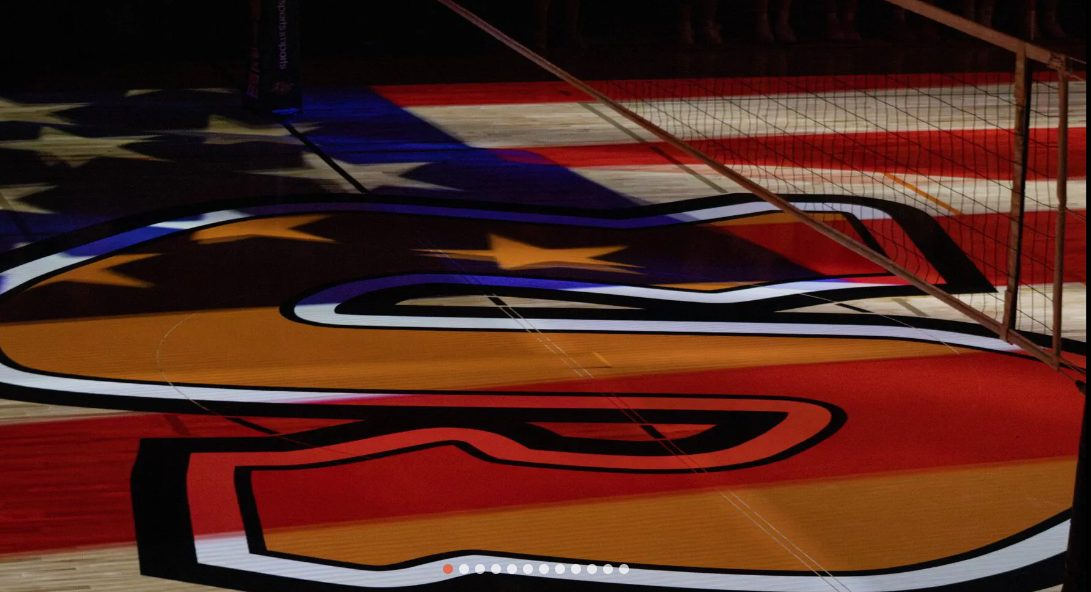
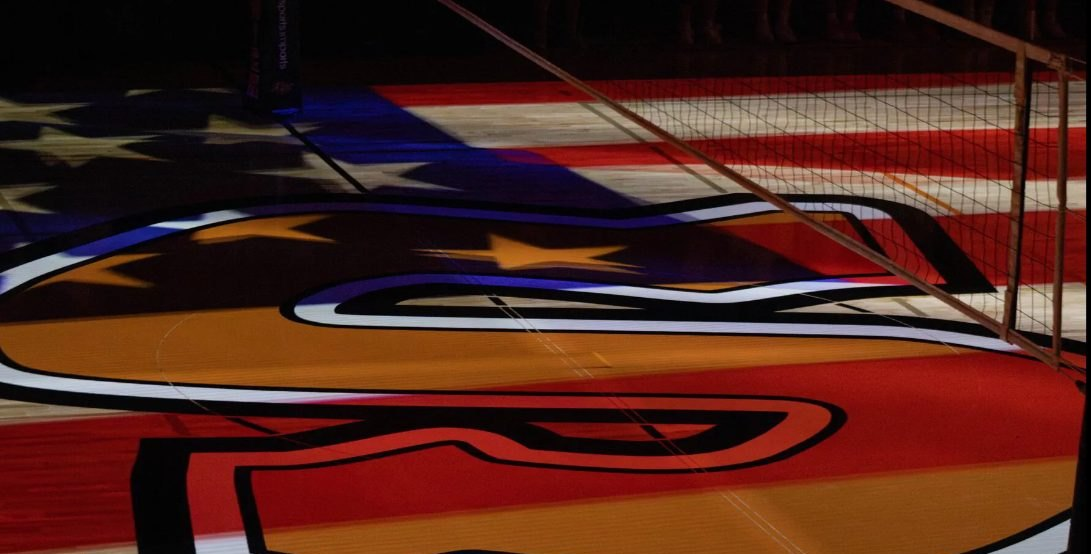
Point membership and store links at the club store, resize schedules hero
- Membership "Become a Member" (memberships page + home menu) now opens the
  club's online store at sandwichsportsboosters.org/digital-services
- Store tab and footer link point at the same store page
- Schedules hero: taller crop so the gym-floor photo is no longer squeezed,
  and trimmed the stray carousel dots off the source image
- Shrank the oversized SHS Sports Schedules and Sponsorship Flyer buttons

Claude-Session: https://claude.ai/code/session_013qvwCLS4XguXbzsBcgNBWY

diff --git a/memberships.html b/memberships.html
@@ -431,14 +431,14 @@ footer ul li a:hover{color:var(--accent-soft)}
 /* giant single call-to-action link block */
 .big-link{display:block;position:relative;overflow:hidden;text-align:center;border-radius:22px;
   background:linear-gradient(135deg,var(--accent) 0%,var(--accent-deep) 100%);
-  color:#150b02;padding:clamp(40px,6vw,72px) 28px;box-shadow:0 26px 60px -24px rgba(255,122,26,.75);
+  color:#150b02;padding:clamp(26px,3.4vw,40px) 26px;box-shadow:0 20px 46px -22px rgba(255,122,26,.7);
   transition:.35s cubic-bezier(.16,1,.3,1)}
 .big-link:hover{transform:translateY(-5px);box-shadow:0 34px 72px -22px rgba(255,122,26,.9)}
 .big-link::after{content:"";position:absolute;inset:0;background:linear-gradient(120deg,transparent,rgba(255,255,255,.4),transparent);transform:translateX(-130%);transition:.7s}
 .big-link:hover::after{transform:translateX(130%)}
-.big-link .bl-tag{font-size:11.5px;font-weight:800;letter-spacing:.28em;text-transform:uppercase;opacity:.72}
-.big-link h2{font-size:clamp(2.3rem,6vw,4.4rem);margin-top:10px;color:#150b02}
-.big-link .bl-note{margin-top:14px;font-weight:700;font-size:1rem;opacity:.8}
+.big-link .bl-tag{font-size:10.5px;font-weight:800;letter-spacing:.28em;text-transform:uppercase;opacity:.72}
+.big-link h2{font-size:clamp(1.9rem,3.6vw,2.9rem);margin-top:8px;color:#150b02}
+.big-link .bl-note{margin-top:10px;font-weight:700;font-size:.92rem;opacity:.82}
 
 /* event rows — photo on top, no boxy card */
 .event-row{display:grid;grid-template-columns:.95fr 1.05fr;gap:clamp(22px,3vw,40px);align-items:center;padding:clamp(22px,3vw,32px) 0;border-top:1px solid var(--line)}
@@ -518,8 +518,9 @@ footer ul li a:hover{color:var(--accent-soft)}
 @media(max-width:780px){.mem-grid{grid-template-columns:1fr}}
 
 /* compact photo hero for interior pages */
-.page-photo-hero{min-height:auto;padding:150px 0 74px}
-.page-photo-hero .hero-lockup h1{font-size:clamp(2.6rem,6vw,4.4rem)}
+.page-photo-hero{min-height:62vh;padding:170px 0 96px}
+.page-photo-hero .hero-lockup h1{font-size:clamp(2.4rem,5.2vw,3.9rem)}
+.page-photo-hero .bg img{object-position:center 55%}
 </style>
 </head>
 <body>
@@ -536,7 +537,7 @@ footer ul li a:hover{color:var(--accent-soft)}
       <a class="lk" href="about.html">About Us</a>
       <a class="lk" href="sponsorship.html">Sponsorship</a>
       <a class="lk active" aria-current="page" href="memberships.html">Memberships</a>
-      <a class="lk" href="#REPLACE-WITH-STORE-DESTINATION" target="_blank" rel="noopener">Store</a>
+      <a class="lk" href="https://sandwichsportsboosters.org/digital-services" target="_blank" rel="noopener">Store</a>
       <a class="lk" href="coaches-corner.html">Coaches Corner</a>
       <a class="btn btn-primary nav-cta" href="sponsorship.html">Become a Sponsor</a>
     </nav>
@@ -589,7 +590,7 @@ footer ul li a:hover{color:var(--accent-soft)}
     <p class="mem-note reveal">Volunteering isn't required, but it's encouraged. If you choose not to volunteer you can't direct your membership fee to a sport &mdash; you still get every other benefit.</p>
 
     <div style="text-align:center;margin-top:34px">
-      <a class="btn btn-primary ext" href="#REPLACE-WITH-MEMBER-SIGNUP-DESTINATION" target="_blank" rel="noopener">Become a Member</a>
+      <a class="btn btn-primary ext" href="https://sandwichsportsboosters.org/digital-services" target="_blank" rel="noopener">Become a Member</a>
     </div>
   </div>
 </section>
@@ -617,7 +618,7 @@ footer ul li a:hover{color:var(--accent-soft)}
           <li><a href="about.html">About Us</a></li>
           <li><a href="sponsorship.html">Sponsorship</a></li>
           <li><a href="memberships.html">Memberships</a></li>
-          <li><a href="#REPLACE-WITH-STORE-DESTINATION" target="_blank" rel="noopener">Store</a></li>
+          <li><a href="https://sandwichsportsboosters.org/digital-services" target="_blank" rel="noopener">Store</a></li>
           <li><a href="coaches-corner.html">Coaches Corner</a></li>
           <li><a href="contact.html">Contact Us</a></li>
         </ul>

diff --git a/index.html b/index.html
@@ -431,14 +431,14 @@ footer ul li a:hover{color:var(--accent-soft)}
 /* giant single call-to-action link block */
 .big-link{display:block;position:relative;overflow:hidden;text-align:center;border-radius:22px;
   background:linear-gradient(135deg,var(--accent) 0%,var(--accent-deep) 100%);
-  color:#150b02;padding:clamp(40px,6vw,72px) 28px;box-shadow:0 26px 60px -24px rgba(255,122,26,.75);
+  color:#150b02;padding:clamp(26px,3.4vw,40px) 26px;box-shadow:0 20px 46px -22px rgba(255,122,26,.7);
   transition:.35s cubic-bezier(.16,1,.3,1)}
 .big-link:hover{transform:translateY(-5px);box-shadow:0 34px 72px -22px rgba(255,122,26,.9)}
 .big-link::after{content:"";position:absolute;inset:0;background:linear-gradient(120deg,transparent,rgba(255,255,255,.4),transparent);transform:translateX(-130%);transition:.7s}
 .big-link:hover::after{transform:translateX(130%)}
-.big-link .bl-tag{font-size:11.5px;font-weight:800;letter-spacing:.28em;text-transform:uppercase;opacity:.72}
-.big-link h2{font-size:clamp(2.3rem,6vw,4.4rem);margin-top:10px;color:#150b02}
-.big-link .bl-note{margin-top:14px;font-weight:700;font-size:1rem;opacity:.8}
+.big-link .bl-tag{font-size:10.5px;font-weight:800;letter-spacing:.28em;text-transform:uppercase;opacity:.72}
+.big-link h2{font-size:clamp(1.9rem,3.6vw,2.9rem);margin-top:8px;color:#150b02}
+.big-link .bl-note{margin-top:10px;font-weight:700;font-size:.92rem;opacity:.82}
 
 /* event rows — photo on top, no boxy card */
 .event-row{display:grid;grid-template-columns:.95fr 1.05fr;gap:clamp(22px,3vw,40px);align-items:center;padding:clamp(22px,3vw,32px) 0;border-top:1px solid var(--line)}
@@ -518,8 +518,9 @@ footer ul li a:hover{color:var(--accent-soft)}
 @media(max-width:780px){.mem-grid{grid-template-columns:1fr}}
 
 /* compact photo hero for interior pages */
-.page-photo-hero{min-height:auto;padding:150px 0 74px}
-.page-photo-hero .hero-lockup h1{font-size:clamp(2.6rem,6vw,4.4rem)}
+.page-photo-hero{min-height:62vh;padding:170px 0 96px}
+.page-photo-hero .hero-lockup h1{font-size:clamp(2.4rem,5.2vw,3.9rem)}
+.page-photo-hero .bg img{object-position:center 55%}
 
 /* ---- page-specific ---- */
 /* home is a menu: hero lockup + four buttons, nothing else */
@@ -570,7 +571,7 @@ footer ul li a:hover{color:var(--accent-soft)}
       <a class="lk" href="about.html">About Us</a>
       <a class="lk" href="sponsorship.html">Sponsorship</a>
       <a class="lk" href="memberships.html">Memberships</a>
-      <a class="lk" href="#REPLACE-WITH-STORE-DESTINATION" target="_blank" rel="noopener">Store</a>
+      <a class="lk" href="https://sandwichsportsboosters.org/digital-services" target="_blank" rel="noopener">Store</a>
       <a class="lk" href="coaches-corner.html">Coaches Corner</a>
       <a class="btn btn-primary nav-cta" href="sponsorship.html">Become a Sponsor</a>
     </nav>
@@ -593,7 +594,7 @@ footer ul li a:hover{color:var(--accent-soft)}
 
     <!-- MAIN MENU — each opens where the action actually happens -->
     <nav class="home-menu reveal" aria-label="Main actions">
-      <a class="menu-btn" href="#REPLACE-WITH-MEMBER-SIGNUP-DESTINATION" target="_blank" rel="noopener">
+      <a class="menu-btn" href="https://sandwichsportsboosters.org/digital-services" target="_blank" rel="noopener">
         <span>BECOME A MEMBER</span>
       </a>
       <a class="menu-btn" href="https://shs.sandwich430.org/athletics-home" target="_blank" rel="noopener">
@@ -630,7 +631,7 @@ footer ul li a:hover{color:var(--accent-soft)}
           <li><a href="about.html">About Us</a></li>
           <li><a href="sponsorship.html">Sponsorship</a></li>
           <li><a href="memberships.html">Memberships</a></li>
-          <li><a href="#REPLACE-WITH-STORE-DESTINATION" target="_blank" rel="noopener">Store</a></li>
+          <li><a href="https://sandwichsportsboosters.org/digital-services" target="_blank" rel="noopener">Store</a></li>
           <li><a href="coaches-corner.html">Coaches Corner</a></li>
           <li><a href="contact.html">Contact Us</a></li>
         </ul>

diff --git a/contact.html b/contact.html
@@ -431,14 +431,14 @@ footer ul li a:hover{color:var(--accent-soft)}
 /* giant single call-to-action link block */
 .big-link{display:block;position:relative;overflow:hidden;text-align:center;border-radius:22px;
   background:linear-gradient(135deg,var(--accent) 0%,var(--accent-deep) 100%);
-  color:#150b02;padding:clamp(40px,6vw,72px) 28px;box-shadow:0 26px 60px -24px rgba(255,122,26,.75);
+  color:#150b02;padding:clamp(26px,3.4vw,40px) 26px;box-shadow:0 20px 46px -22px rgba(255,122,26,.7);
   transition:.35s cubic-bezier(.16,1,.3,1)}
 .big-link:hover{transform:translateY(-5px);box-shadow:0 34px 72px -22px rgba(255,122,26,.9)}
 .big-link::after{content:"";position:absolute;inset:0;background:linear-gradient(120deg,transparent,rgba(255,255,255,.4),transparent);transform:translateX(-130%);transition:.7s}
 .big-link:hover::after{transform:translateX(130%)}
-.big-link .bl-tag{font-size:11.5px;font-weight:800;letter-spacing:.28em;text-transform:uppercase;opacity:.72}
-.big-link h2{font-size:clamp(2.3rem,6vw,4.4rem);margin-top:10px;color:#150b02}
-.big-link .bl-note{margin-top:14px;font-weight:700;font-size:1rem;opacity:.8}
+.big-link .bl-tag{font-size:10.5px;font-weight:800;letter-spacing:.28em;text-transform:uppercase;opacity:.72}
+.big-link h2{font-size:clamp(1.9rem,3.6vw,2.9rem);margin-top:8px;color:#150b02}
+.big-link .bl-note{margin-top:10px;font-weight:700;font-size:.92rem;opacity:.82}
 
 /* event rows — photo on top, no boxy card */
 .event-row{display:grid;grid-template-columns:.95fr 1.05fr;gap:clamp(22px,3vw,40px);align-items:center;padding:clamp(22px,3vw,32px) 0;border-top:1px solid var(--line)}
@@ -518,8 +518,9 @@ footer ul li a:hover{color:var(--accent-soft)}
 @media(max-width:780px){.mem-grid{grid-template-columns:1fr}}
 
 /* compact photo hero for interior pages */
-.page-photo-hero{min-height:auto;padding:150px 0 74px}
-.page-photo-hero .hero-lockup h1{font-size:clamp(2.6rem,6vw,4.4rem)}
+.page-photo-hero{min-height:62vh;padding:170px 0 96px}
+.page-photo-hero .hero-lockup h1{font-size:clamp(2.4rem,5.2vw,3.9rem)}
+.page-photo-hero .bg img{object-position:center 55%}
 </style>
 </head>
 <body>
@@ -536,7 +537,7 @@ footer ul li a:hover{color:var(--accent-soft)}
       <a class="lk" href="about.html">About Us</a>
       <a class="lk" href="sponsorship.html">Sponsorship</a>
       <a class="lk" href="memberships.html">Memberships</a>
-      <a class="lk" href="#REPLACE-WITH-STORE-DESTINATION" target="_blank" rel="noopener">Store</a>
+      <a class="lk" href="https://sandwichsportsboosters.org/digital-services" target="_blank" rel="noopener">Store</a>
       <a class="lk" href="coaches-corner.html">Coaches Corner</a>
       <a class="btn btn-primary nav-cta" href="sponsorship.html">Become a Sponsor</a>
     </nav>
@@ -629,7 +630,7 @@ document.getElementById('contactForm').addEventListener('submit',function(e){
           <li><a href="about.html">About Us</a></li>
           <li><a href="sponsorship.html">Sponsorship</a></li>
           <li><a href="memberships.html">Memberships</a></li>
-          <li><a href="#REPLACE-WITH-STORE-DESTINATION" target="_blank" rel="noopener">Store</a></li>
+          <li><a href="https://sandwichsportsboosters.org/digital-services" target="_blank" rel="noopener">Store</a></li>
           <li><a href="coaches-corner.html">Coaches Corner</a></li>
           <li><a href="contact.html">Contact Us</a></li>
         </ul>

diff --git a/about.html b/about.html
@@ -431,14 +431,14 @@ footer ul li a:hover{color:var(--accent-soft)}
 /* giant single call-to-action link block */
 .big-link{display:block;position:relative;overflow:hidden;text-align:center;border-radius:22px;
   background:linear-gradient(135deg,var(--accent) 0%,var(--accent-deep) 100%);
-  color:#150b02;padding:clamp(40px,6vw,72px) 28px;box-shadow:0 26px 60px -24px rgba(255,122,26,.75);
+  color:#150b02;padding:clamp(26px,3.4vw,40px) 26px;box-shadow:0 20px 46px -22px rgba(255,122,26,.7);
   transition:.35s cubic-bezier(.16,1,.3,1)}
 .big-link:hover{transform:translateY(-5px);box-shadow:0 34px 72px -22px rgba(255,122,26,.9)}
 .big-link::after{content:"";position:absolute;inset:0;background:linear-gradient(120deg,transparent,rgba(255,255,255,.4),transparent);transform:translateX(-130%);transition:.7s}
 .big-link:hover::after{transform:translateX(130%)}
-.big-link .bl-tag{font-size:11.5px;font-weight:800;letter-spacing:.28em;text-transform:uppercase;opacity:.72}
-.big-link h2{font-size:clamp(2.3rem,6vw,4.4rem);margin-top:10px;color:#150b02}
-.big-link .bl-note{margin-top:14px;font-weight:700;font-size:1rem;opacity:.8}
+.big-link .bl-tag{font-size:10.5px;font-weight:800;letter-spacing:.28em;text-transform:uppercase;opacity:.72}
+.big-link h2{font-size:clamp(1.9rem,3.6vw,2.9rem);margin-top:8px;color:#150b02}
+.big-link .bl-note{margin-top:10px;font-weight:700;font-size:.92rem;opacity:.82}
 
 /* event rows — photo on top, no boxy card */
 .event-row{display:grid;grid-template-columns:.95fr 1.05fr;gap:clamp(22px,3vw,40px);align-items:center;padding:clamp(22px,3vw,32px) 0;border-top:1px solid var(--line)}
@@ -518,8 +518,9 @@ footer ul li a:hover{color:var(--accent-soft)}
 @media(max-width:780px){.mem-grid{grid-template-columns:1fr}}
 
 /* compact photo hero for interior pages */
-.page-photo-hero{min-height:auto;padding:150px 0 74px}
-.page-photo-hero .hero-lockup h1{font-size:clamp(2.6rem,6vw,4.4rem)}
+.page-photo-hero{min-height:62vh;padding:170px 0 96px}
+.page-photo-hero .hero-lockup h1{font-size:clamp(2.4rem,5.2vw,3.9rem)}
+.page-photo-hero .bg img{object-position:center 55%}
 </style>
 </head>
 <body>
@@ -536,7 +537,7 @@ footer ul li a:hover{color:var(--accent-soft)}
       <a class="lk active" aria-current="page" href="about.html">About Us</a>
       <a class="lk" href="sponsorship.html">Sponsorship</a>
       <a class="lk" href="memberships.html">Memberships</a>
-      <a class="lk" href="#REPLACE-WITH-STORE-DESTINATION" target="_blank" rel="noopener">Store</a>
+      <a class="lk" href="https://sandwichsportsboosters.org/digital-services" target="_blank" rel="noopener">Store</a>
       <a class="lk" href="coaches-corner.html">Coaches Corner</a>
       <a class="btn btn-primary nav-cta" href="sponsorship.html">Become a Sponsor</a>
     </nav>
@@ -597,7 +598,7 @@ footer ul li a:hover{color:var(--accent-soft)}
           <li><a href="about.html">About Us</a></li>
           <li><a href="sponsorship.html">Sponsorship</a></li>
           <li><a href="memberships.html">Memberships</a></li>
-          <li><a href="#REPLACE-WITH-STORE-DESTINATION" target="_blank" rel="noopener">Store</a></li>
+          <li><a href="https://sandwichsportsboosters.org/digital-services" target="_blank" rel="noopener">Store</a></li>
           <li><a href="coaches-corner.html">Coaches Corner</a></li>
           <li><a href="contact.html">Contact Us</a></li>
         </ul>

diff --git a/coaches-corner.html b/coaches-corner.html
@@ -431,14 +431,14 @@ footer ul li a:hover{color:var(--accent-soft)}
 /* giant single call-to-action link block */
 .big-link{display:block;position:relative;overflow:hidden;text-align:center;border-radius:22px;
   background:linear-gradient(135deg,var(--accent) 0%,var(--accent-deep) 100%);
-  color:#150b02;padding:clamp(40px,6vw,72px) 28px;box-shadow:0 26px 60px -24px rgba(255,122,26,.75);
+  color:#150b02;padding:clamp(26px,3.4vw,40px) 26px;box-shadow:0 20px 46px -22px rgba(255,122,26,.7);
   transition:.35s cubic-bezier(.16,1,.3,1)}
 .big-link:hover{transform:translateY(-5px);box-shadow:0 34px 72px -22px rgba(255,122,26,.9)}
 .big-link::after{content:"";position:absolute;inset:0;background:linear-gradient(120deg,transparent,rgba(255,255,255,.4),transparent);transform:translateX(-130%);transition:.7s}
 .big-link:hover::after{transform:translateX(130%)}
-.big-link .bl-tag{font-size:11.5px;font-weight:800;letter-spacing:.28em;text-transform:uppercase;opacity:.72}
-.big-link h2{font-size:clamp(2.3rem,6vw,4.4rem);margin-top:10px;color:#150b02}
-.big-link .bl-note{margin-top:14px;font-weight:700;font-size:1rem;opacity:.8}
+.big-link .bl-tag{font-size:10.5px;font-weight:800;letter-spacing:.28em;text-transform:uppercase;opacity:.72}
+.big-link h2{font-size:clamp(1.9rem,3.6vw,2.9rem);margin-top:8px;color:#150b02}
+.big-link .bl-note{margin-top:10px;font-weight:700;font-size:.92rem;opacity:.82}
 
 /* event rows — photo on top, no boxy card */
 .event-row{display:grid;grid-template-columns:.95fr 1.05fr;gap:clamp(22px,3vw,40px);align-items:center;padding:clamp(22px,3vw,32px) 0;border-top:1px solid var(--line)}
@@ -518,8 +518,9 @@ footer ul li a:hover{color:var(--accent-soft)}
 @media(max-width:780px){.mem-grid{grid-template-columns:1fr}}
 
 /* compact photo hero for interior pages */
-.page-photo-hero{min-height:auto;padding:150px 0 74px}
-.page-photo-hero .hero-lockup h1{font-size:clamp(2.6rem,6vw,4.4rem)}
+.page-photo-hero{min-height:62vh;padding:170px 0 96px}
+.page-photo-hero .hero-lockup h1{font-size:clamp(2.4rem,5.2vw,3.9rem)}
+.page-photo-hero .bg img{object-position:center 55%}
 </style>
 </head>
 <body>
@@ -536,7 +537,7 @@ footer ul li a:hover{color:var(--accent-soft)}
       <a class="lk" href="about.html">About Us</a>
       <a class="lk" href="sponsorship.html">Sponsorship</a>
       <a class="lk" href="memberships.html">Memberships</a>
-      <a class="lk" href="#REPLACE-WITH-STORE-DESTINATION" target="_blank" rel="noopener">Store</a>
+      <a class="lk" href="https://sandwichsportsboosters.org/digital-services" target="_blank" rel="noopener">Store</a>
       <a class="lk active" aria-current="page" href="coaches-corner.html">Coaches Corner</a>
       <a class="btn btn-primary nav-cta" href="sponsorship.html">Become a Sponsor</a>
     </nav>
@@ -610,7 +611,7 @@ footer ul li a:hover{color:var(--accent-soft)}
           <li><a href="about.html">About Us</a></li>
           <li><a href="sponsorship.html">Sponsorship</a></li>
           <li><a href="memberships.html">Memberships</a></li>
-          <li><a href="#REPLACE-WITH-STORE-DESTINATION" target="_blank" rel="noopener">Store</a></li>
+          <li><a href="https://sandwichsportsboosters.org/digital-services" target="_blank" rel="noopener">Store</a></li>
           <li><a href="coaches-corner.html">Coaches Corner</a></li>
           <li><a href="contact.html">Contact Us</a></li>
         </ul>

diff --git a/sponsorship.html b/sponsorship.html
@@ -431,14 +431,14 @@ footer ul li a:hover{color:var(--accent-soft)}
 /* giant single call-to-action link block */
 .big-link{display:block;position:relative;overflow:hidden;text-align:center;border-radius:22px;
   background:linear-gradient(135deg,var(--accent) 0%,var(--accent-deep) 100%);
-  color:#150b02;padding:clamp(40px,6vw,72px) 28px;box-shadow:0 26px 60px -24px rgba(255,122,26,.75);
+  color:#150b02;padding:clamp(26px,3.4vw,40px) 26px;box-shadow:0 20px 46px -22px rgba(255,122,26,.7);
   transition:.35s cubic-bezier(.16,1,.3,1)}
 .big-link:hover{transform:translateY(-5px);box-shadow:0 34px 72px -22px rgba(255,122,26,.9)}
 .big-link::after{content:"";position:absolute;inset:0;background:linear-gradient(120deg,transparent,rgba(255,255,255,.4),transparent);transform:translateX(-130%);transition:.7s}
 .big-link:hover::after{transform:translateX(130%)}
-.big-link .bl-tag{font-size:11.5px;font-weight:800;letter-spacing:.28em;text-transform:uppercase;opacity:.72}
-.big-link h2{font-size:clamp(2.3rem,6vw,4.4rem);margin-top:10px;color:#150b02}
-.big-link .bl-note{margin-top:14px;font-weight:700;font-size:1rem;opacity:.8}
+.big-link .bl-tag{font-size:10.5px;font-weight:800;letter-spacing:.28em;text-transform:uppercase;opacity:.72}
+.big-link h2{font-size:clamp(1.9rem,3.6vw,2.9rem);margin-top:8px;color:#150b02}
+.big-link .bl-note{margin-top:10px;font-weight:700;font-size:.92rem;opacity:.82}
 
 /* event rows — photo on top, no boxy card */
 .event-row{display:grid;grid-template-columns:.95fr 1.05fr;gap:clamp(22px,3vw,40px);align-items:center;padding:clamp(22px,3vw,32px) 0;border-top:1px solid var(--line)}
@@ -518,8 +518,9 @@ footer ul li a:hover{color:var(--accent-soft)}
 @media(max-width:780px){.mem-grid{grid-template-columns:1fr}}
 
 /* compact photo hero for interior pages */
-.page-photo-hero{min-height:auto;padding:150px 0 74px}
-.page-photo-hero .hero-lockup h1{font-size:clamp(2.6rem,6vw,4.4rem)}
+.page-photo-hero{min-height:62vh;padding:170px 0 96px}
+.page-photo-hero .hero-lockup h1{font-size:clamp(2.4rem,5.2vw,3.9rem)}
+.page-photo-hero .bg img{object-position:center 55%}
 </style>
 </head>
 <body>
@@ -536,7 +537,7 @@ footer ul li a:hover{color:var(--accent-soft)}
       <a class="lk" href="about.html">About Us</a>
       <a class="lk active" aria-current="page" href="sponsorship.html">Sponsorship</a>
       <a class="lk" href="memberships.html">Memberships</a>
-      <a class="lk" href="#REPLACE-WITH-STORE-DESTINATION" target="_blank" rel="noopener">Store</a>
+      <a class="lk" href="https://sandwichsportsboosters.org/digital-services" target="_blank" rel="noopener">Store</a>
       <a class="lk" href="coaches-corner.html">Coaches Corner</a>
       <a class="btn btn-primary nav-cta" href="sponsorship.html">Become a Sponsor</a>
     </nav>
@@ -631,7 +632,7 @@ footer ul li a:hover{color:var(--accent-soft)}
           <li><a href="about.html">About Us</a></li>
           <li><a href="sponsorship.html">Sponsorship</a></li>
           <li><a href="memberships.html">Memberships</a></li>
-          <li><a href="#REPLACE-WITH-STORE-DESTINATION" target="_blank" rel="noopener">Store</a></li>
+          <li><a href="https://sandwichsportsboosters.org/digital-services" target="_blank" rel="noopener">Store</a></li>
           <li><a href="coaches-corner.html">Coaches Corner</a></li>
           <li><a href="contact.html">Contact Us</a></li>
         </ul>

diff --git a/events.html b/events.html
@@ -431,14 +431,14 @@ footer ul li a:hover{color:var(--accent-soft)}
 /* giant single call-to-action link block */
 .big-link{display:block;position:relative;overflow:hidden;text-align:center;border-radius:22px;
   background:linear-gradient(135deg,var(--accent) 0%,var(--accent-deep) 100%);
-  color:#150b02;padding:clamp(40px,6vw,72px) 28px;box-shadow:0 26px 60px -24px rgba(255,122,26,.75);
+  color:#150b02;padding:clamp(26px,3.4vw,40px) 26px;box-shadow:0 20px 46px -22px rgba(255,122,26,.7);
   transition:.35s cubic-bezier(.16,1,.3,1)}
 .big-link:hover{transform:translateY(-5px);box-shadow:0 34px 72px -22px rgba(255,122,26,.9)}
 .big-link::after{content:"";position:absolute;inset:0;background:linear-gradient(120deg,transparent,rgba(255,255,255,.4),transparent);transform:translateX(-130%);transition:.7s}
 .big-link:hover::after{transform:translateX(130%)}
-.big-link .bl-tag{font-size:11.5px;font-weight:800;letter-spacing:.28em;text-transform:uppercase;opacity:.72}
-.big-link h2{font-size:clamp(2.3rem,6vw,4.4rem);margin-top:10px;color:#150b02}
-.big-link .bl-note{margin-top:14px;font-weight:700;font-size:1rem;opacity:.8}
+.big-link .bl-tag{font-size:10.5px;font-weight:800;letter-spacing:.28em;text-transform:uppercase;opacity:.72}
+.big-link h2{font-size:clamp(1.9rem,3.6vw,2.9rem);margin-top:8px;color:#150b02}
+.big-link .bl-note{margin-top:10px;font-weight:700;font-size:.92rem;opacity:.82}
 
 /* event rows — photo on top, no boxy card */
 .event-row{display:grid;grid-template-columns:.95fr 1.05fr;gap:clamp(22px,3vw,40px);align-items:center;padding:clamp(22px,3vw,32px) 0;border-top:1px solid var(--line)}
@@ -518,8 +518,9 @@ footer ul li a:hover{color:var(--accent-soft)}
 @media(max-width:780px){.mem-grid{grid-template-columns:1fr}}
 
 /* compact photo hero for interior pages */
-.page-photo-hero{min-height:auto;padding:150px 0 74px}
-.page-photo-hero .hero-lockup h1{font-size:clamp(2.6rem,6vw,4.4rem)}
+.page-photo-hero{min-height:62vh;padding:170px 0 96px}
+.page-photo-hero .hero-lockup h1{font-size:clamp(2.4rem,5.2vw,3.9rem)}
+.page-photo-hero .bg img{object-position:center 55%}
 </style>
 </head>
 <body>
@@ -536,7 +537,7 @@ footer ul li a:hover{color:var(--accent-soft)}
       <a class="lk" href="about.html">About Us</a>
       <a class="lk" href="sponsorship.html">Sponsorship</a>
       <a class="lk" href="memberships.html">Memberships</a>
-      <a class="lk" href="#REPLACE-WITH-STORE-DESTINATION" target="_blank" rel="noopener">Store</a>
+      <a class="lk" href="https://sandwichsportsboosters.org/digital-services" target="_blank" rel="noopener">Store</a>
       <a class="lk" href="coaches-corner.html">Coaches Corner</a>
       <a class="btn btn-primary nav-cta" href="sponsorship.html">Become a Sponsor</a>
     </nav>
@@ -607,7 +608,7 @@ footer ul li a:hover{color:var(--accent-soft)}
           <li><a href="about.html">About Us</a></li>
           <li><a href="sponsorship.html">Sponsorship</a></li>
           <li><a href="memberships.html">Memberships</a></li>
-          <li><a href="#REPLACE-WITH-STORE-DESTINATION" target="_blank" rel="noopener">Store</a></li>
+          <li><a href="https://sandwichsportsboosters.org/digital-services" target="_blank" rel="noopener">Store</a></li>
           <li><a href="coaches-corner.html">Coaches Corner</a></li>
           <li><a href="contact.html">Contact Us</a></li>
         </ul>
